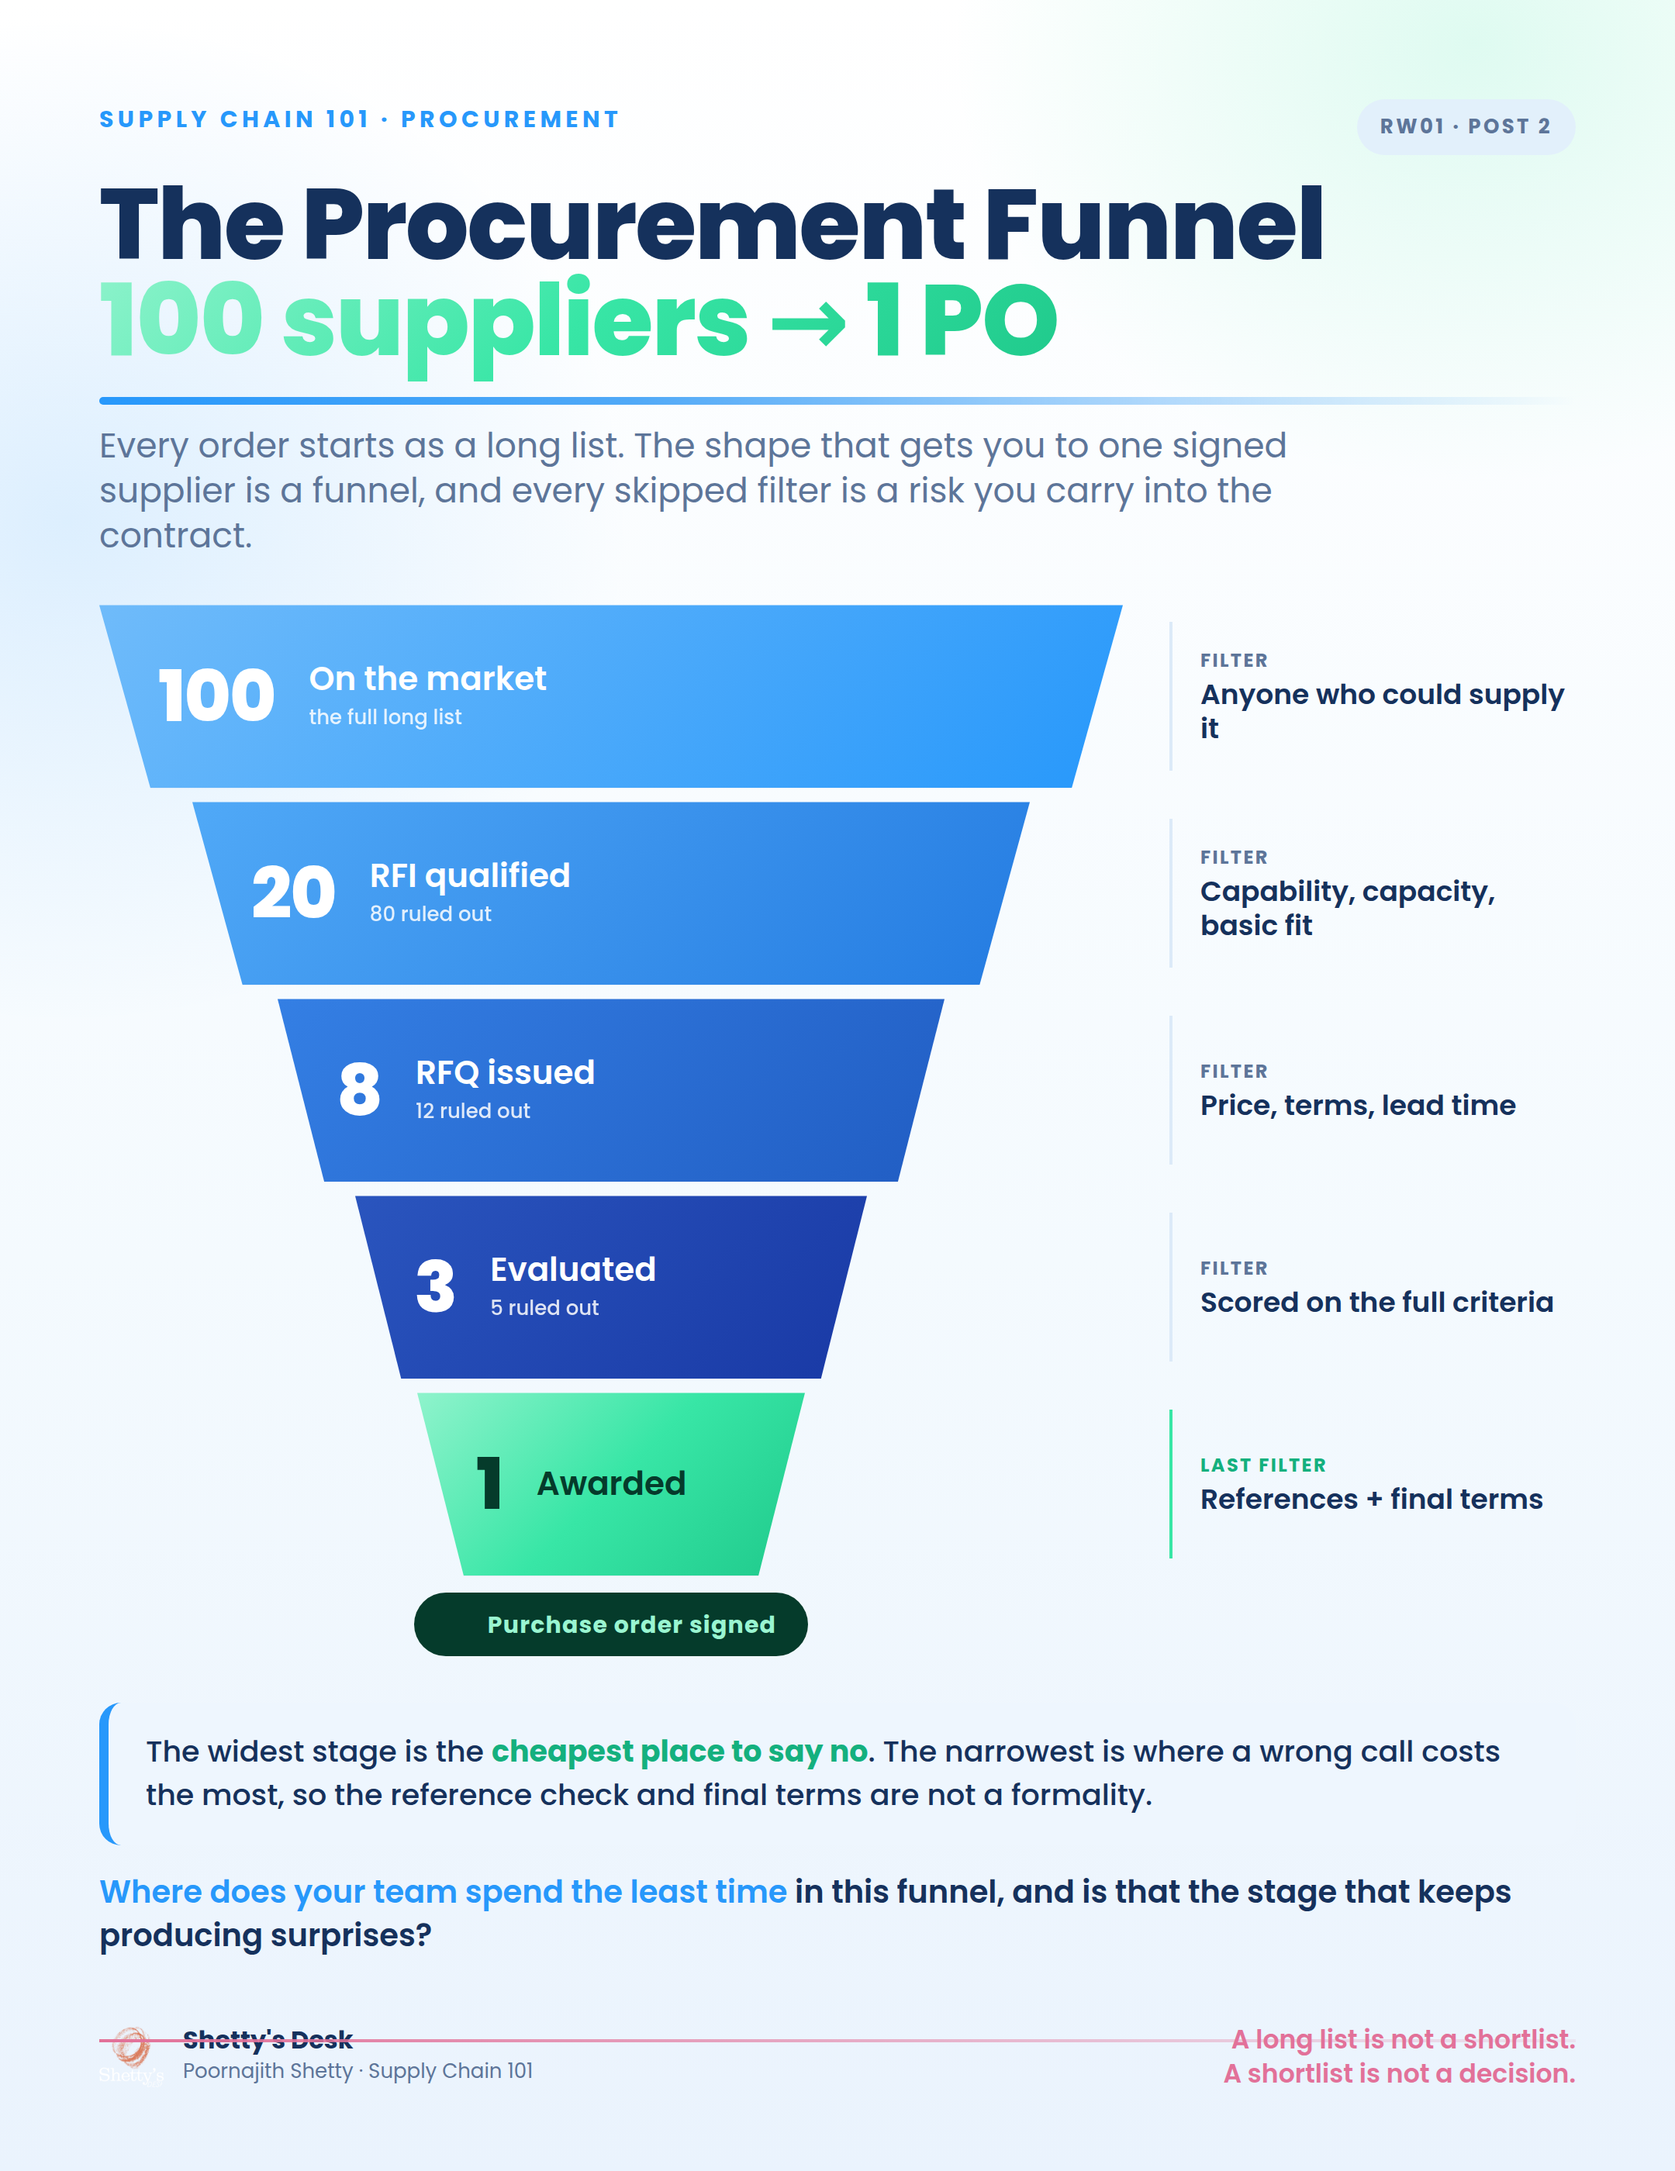
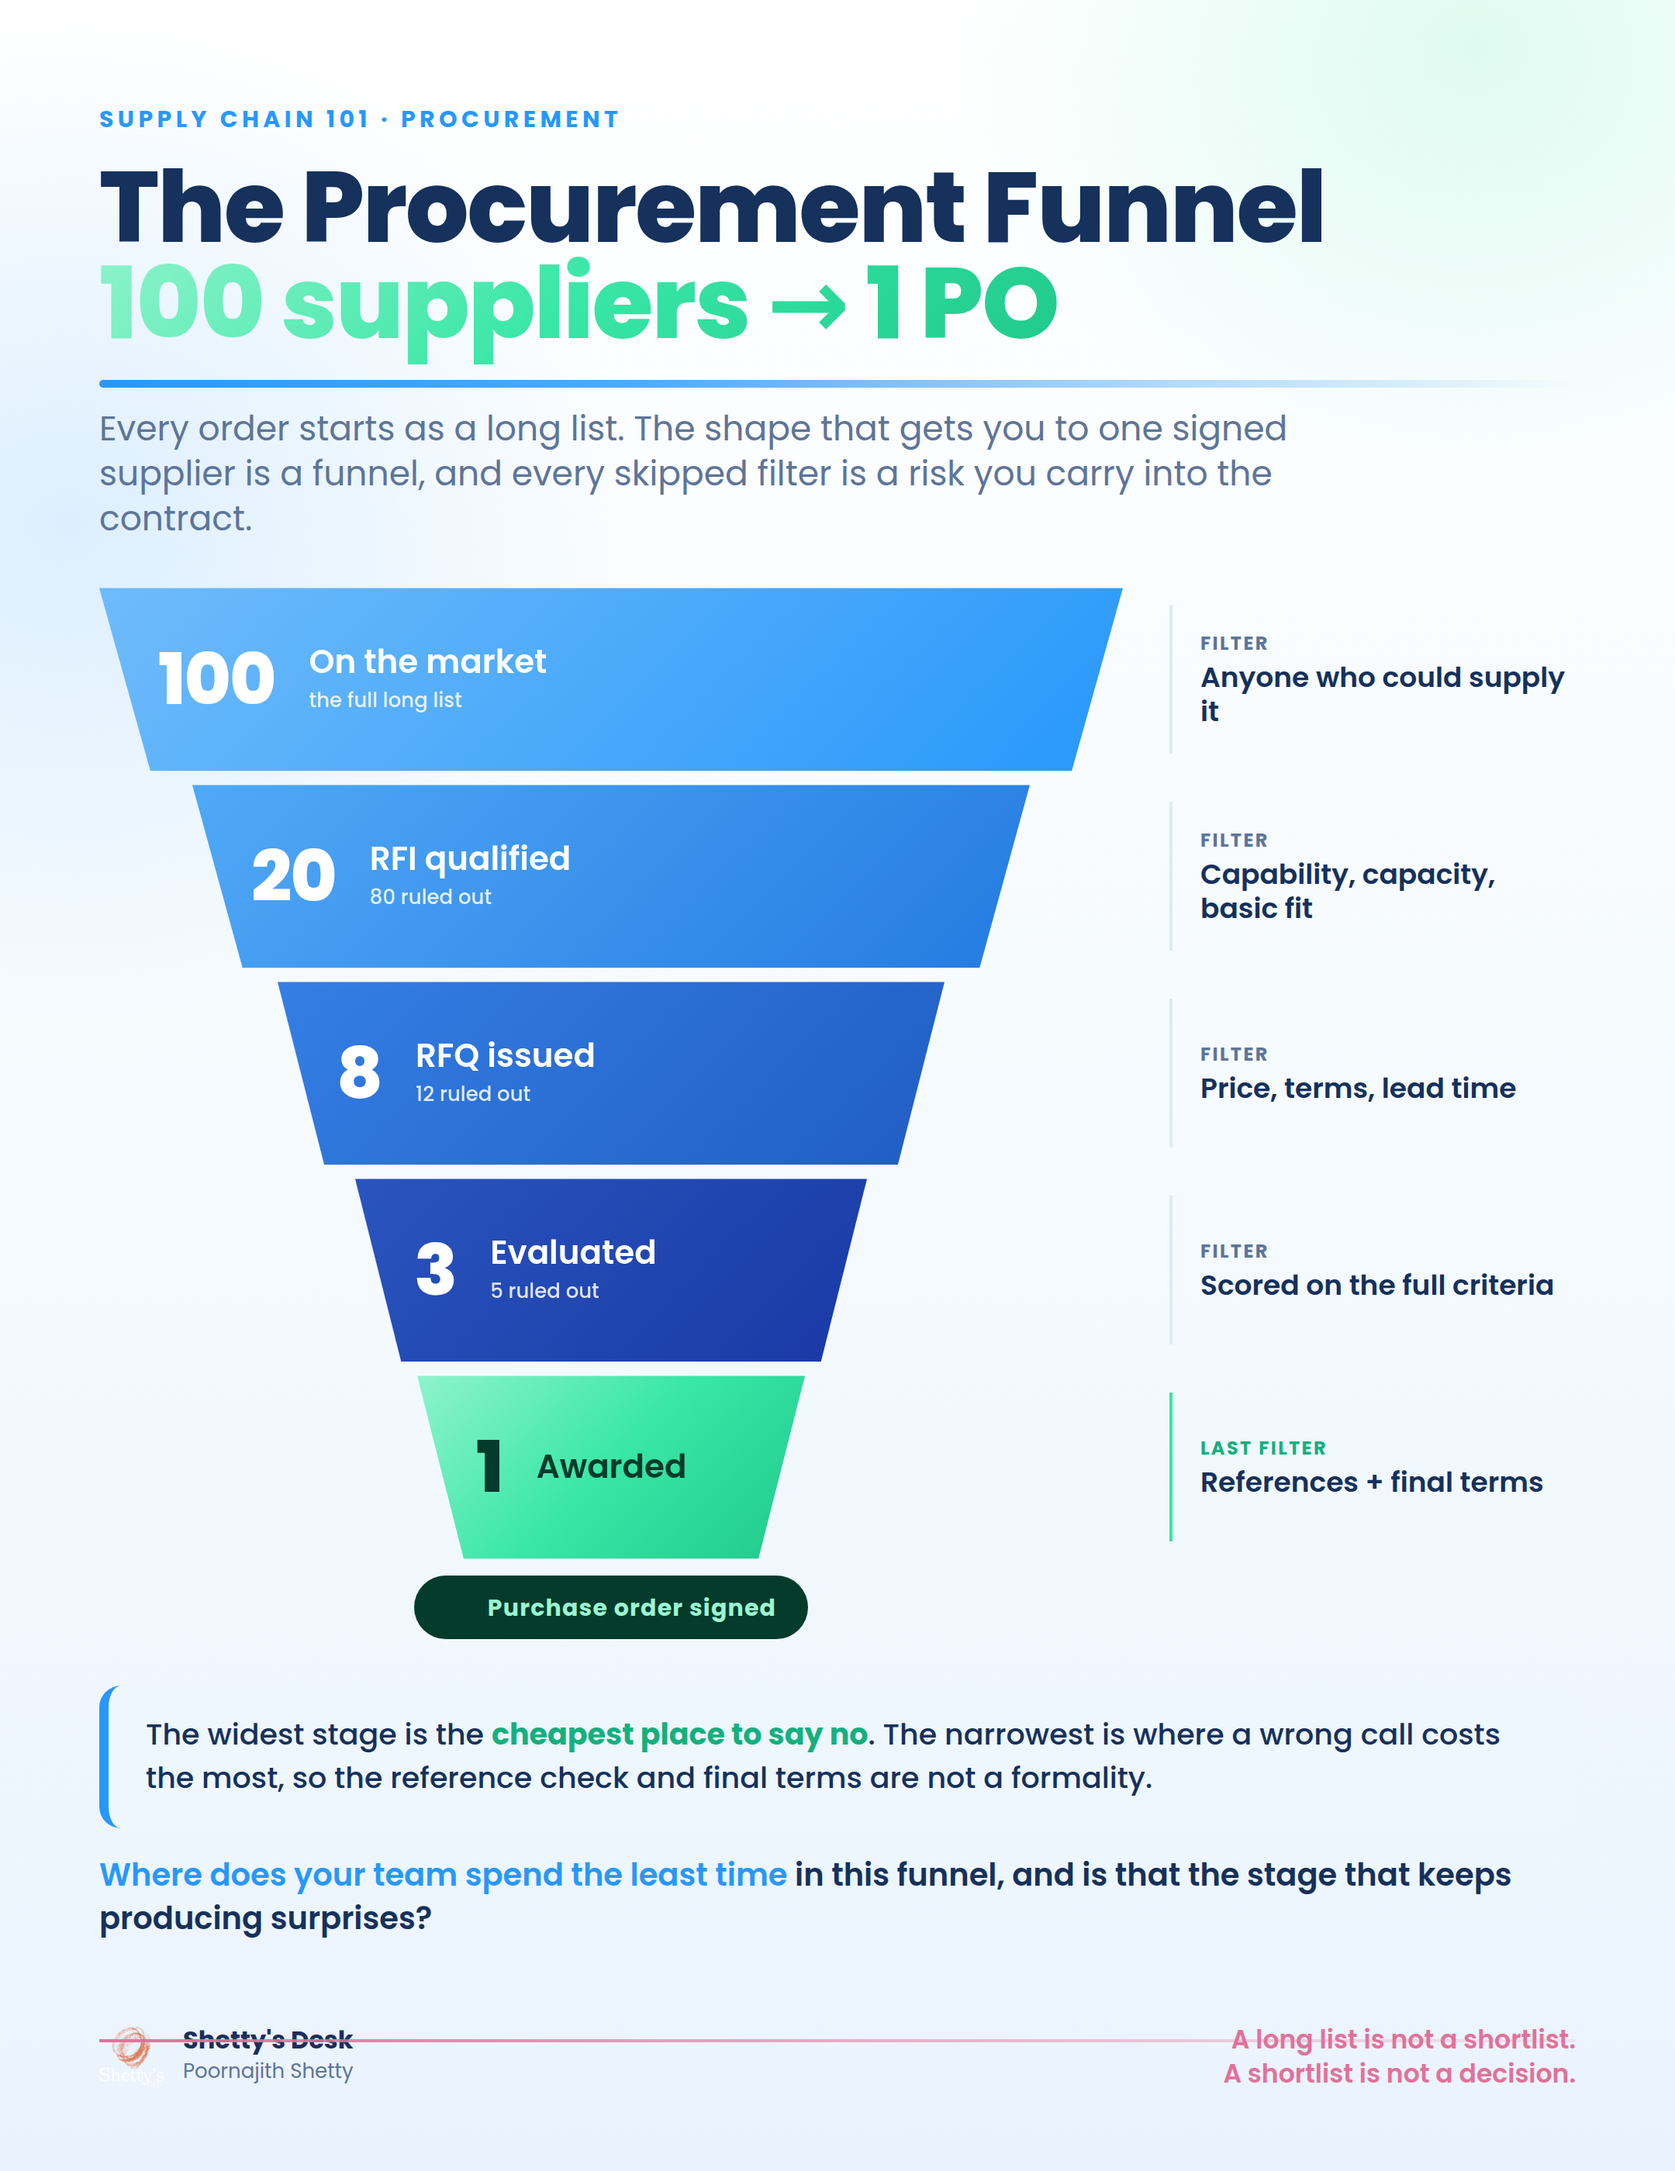
Rebuild RW01 (101) stills under updated workflow
Restart the 101 week with the new conventions:
- Remove internal run-week/post labels from the final output
  (drop "RW01 · Post 2" badge from the funnel)
- Consistent footer across both stills: Shetty's Desk / Poornajith Shetty
- Funnel bands get real depth via filter:drop-shadow extrusion
  (box-shadow was clipped by the clip-path trapezoids)
- Add layout-select Visual Spec block to the funnel copy so both
  101 posts document why their layout makes the argument

Posts: compare-supplier-quotes (2x2 trade-off matrix),
procurement-funnel (funnel narrowing). Both re-rendered and copied
to data/2026-W26/*/visual.png.

Claude-Session: https://claude.ai/code/session_01QHwTCVSbkRhv54hCup5HwM

diff --git a/infographic-setup/renderer/templates/sc101-procurement-funnel.html b/infographic-setup/renderer/templates/sc101-procurement-funnel.html
@@ -33,7 +33,7 @@
   /* funnel */
   .funnel{display:grid;grid-template-columns:660px 1fr;gap:9px 30px;align-items:center;margin-top:30px}
   .band{height:118px;display:flex;align-items:center;gap:22px;padding:0 38px;color:#fff;
-    box-shadow:0 12px 26px rgba(33,93,195,.16);margin:0 auto}
+    filter:drop-shadow(0 16px 15px rgba(33,93,195,.24));margin:0 auto}
   .band .n{font-size:46px;font-weight:800;line-height:1;letter-spacing:-1px}
   .band .nm{font-size:21px;font-weight:600;line-height:1.15}
   .band .drop{font-size:13px;font-weight:500;opacity:.85;margin-top:3px}
@@ -70,7 +70,7 @@
 </head>
 <body>
 <div id="card">
-  <div><span class="kicker">Supply Chain 101 · Procurement</span><span class="badge">RW01 · Post 2</span></div>
+  <div><span class="kicker">Supply Chain 101 · Procurement</span></div>
   <h1>The Procurement Funnel<br><span class="g">100 suppliers → 1 PO</span></h1>
   <div class="rule"></div>
   <div class="sub">Every order starts as a long list. The shape that gets you to one signed supplier is a funnel, and every skipped filter is a risk you carry into the contract.</div>
@@ -98,7 +98,7 @@
   <div class="cta"><span class="q">Where does your team spend the least time</span> in this funnel, and is that the stage that keeps producing surprises?</div>
 
   <div class="foot">
-    <div class="who"><img src="../assets/logos/shettys-desk-logo-1.png" alt="Shetty's Desk"><div><div class="nm">Shetty's Desk</div><div class="hd">Poornajith Shetty · Supply Chain 101</div></div></div>
+    <div class="who"><img src="../assets/logos/shettys-desk-logo-1.png" alt="Shetty's Desk"><div><div class="nm">Shetty's Desk</div><div class="hd">Poornajith Shetty</div></div></div>
     <div class="thesis">A long list is not a shortlist.<br>A shortlist is not a decision.</div>
   </div>
 </div>

diff --git a/infographic-setup/renderer/templates/sc101-compare-quotes-2x2.html b/infographic-setup/renderer/templates/sc101-compare-quotes-2x2.html
@@ -104,7 +104,7 @@
   <div class="insight">Supplier A wins on <span class="px">price</span> but only scores average. Supplier C is cheap and weak — <span class="px">false economy</span>. Supplier B costs a little more and is worth far more. <b>That gap is the whole point.</b></div>
 
   <div class="foot">
-    <div class="who"><img src="../assets/logos/shettys-desk-logo-1.png" alt="Shetty's Desk"><div><div class="nm">Shetty's Desk</div><div class="hd">Poornajith Shetty · Supply Chain 101</div></div></div>
+    <div class="who"><img src="../assets/logos/shettys-desk-logo-1.png" alt="Shetty's Desk"><div><div class="nm">Shetty's Desk</div><div class="hd">Poornajith Shetty</div></div></div>
     <div class="save">Save this for your<br>next sourcing decision.</div>
   </div>
 </div>

diff --git a/infographic-setup/data/2026-W26/procurement-funnel/101-copy.md b/infographic-setup/data/2026-W26/procurement-funnel/101-copy.md
@@ -52,6 +52,11 @@ Follow Poornajith Shetty and Shetty's Desk for more supply chain insights, and s
 
 ---
 
+## Visual Spec (layout-select)
+- **Shape of the idea:** sequential narrowing — many candidates filtered down to one decision, with a named gate between each stage.
+- **Selected layout:** funnel / conversion narrowing. The decreasing band width literally encodes the argument — the widest stage is the "cheapest place to say no", the narrowest is where a wrong call costs most. Chosen over a plain ladder/list so the geometry carries the thesis, and paired with an annotation rail so each filter reads without crowding the bands (max white space). Distinct from the 2×2 matrix used in Post 1 this week (variety across the week).
+- **Feasibility:** Easy · **Library #:** funnel / PF-funnel · **Brand:** azure→deep-blue range with eco "awarded" tip, drop-shadow depth on bands, no tool mark (101).
+
 ## Code-render visual (primary)
 `renderer/templates/sc101-procurement-funnel.html` → `renderer/out/sc101-procurement-funnel.png` (Funnel power format, azure+green brand system) → `visual.png`. Code-rendered for exact stage counts (100→20→8→3→1) and clean funnel geometry; filter rail + drop-counts + eco "win" tip. The ChatGPT Image 2 prompt below is the illustration fallback.
 
